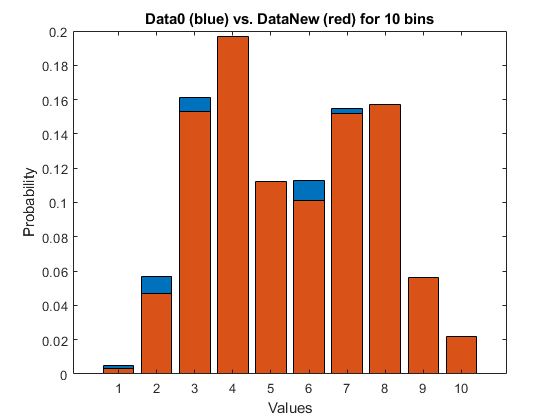
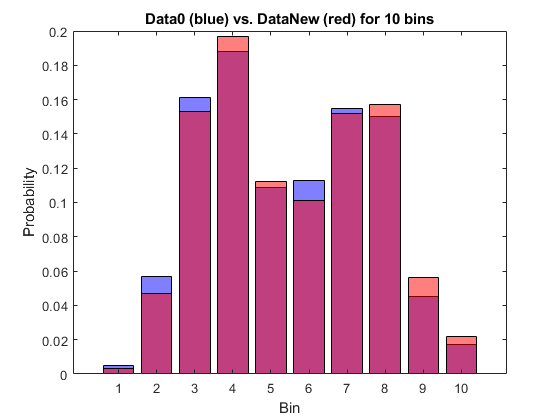
Finalised code and figures

Changed region(s): [[0.1821, 0.0619, 0.85, 0.8976], [0.4857, 0.9595, 0.5768, 0.9905]]

diff --git a/Sample_Experimental_Data.m b/Sample_Experimental_Data.m
@@ -39,7 +39,7 @@ bar(x,p, 'FaceColor', 'blue', 'FaceAlpha', 0.5) % Bar graph for Data0
 hold on
 bar(x,q, 'FaceColor', 'red', 'FaceAlpha', 0.5) % Bar graph for DataNew on the same figure
 title(sprintf("Data0 (blue) vs. DataNew (red) for %d bins", bins))
-xlabel("Values")
+xlabel("Bin")
 ylabel("Probability")
 
 dkl_Mat  = []; % Initialise empty array to sum for Kullback-Leibler measurement

diff --git a/PST_n10852565.m b/PST_n10852565.m
@@ -84,9 +84,7 @@ hold off
 load('sampledata2023.mat')
 
 Sample_Experimental_Data(20, Data0);
-%%
 Sample_Experimental_Data(10, Data0);
-%%
 Sample_Experimental_Data(40, Data0);
 
 
